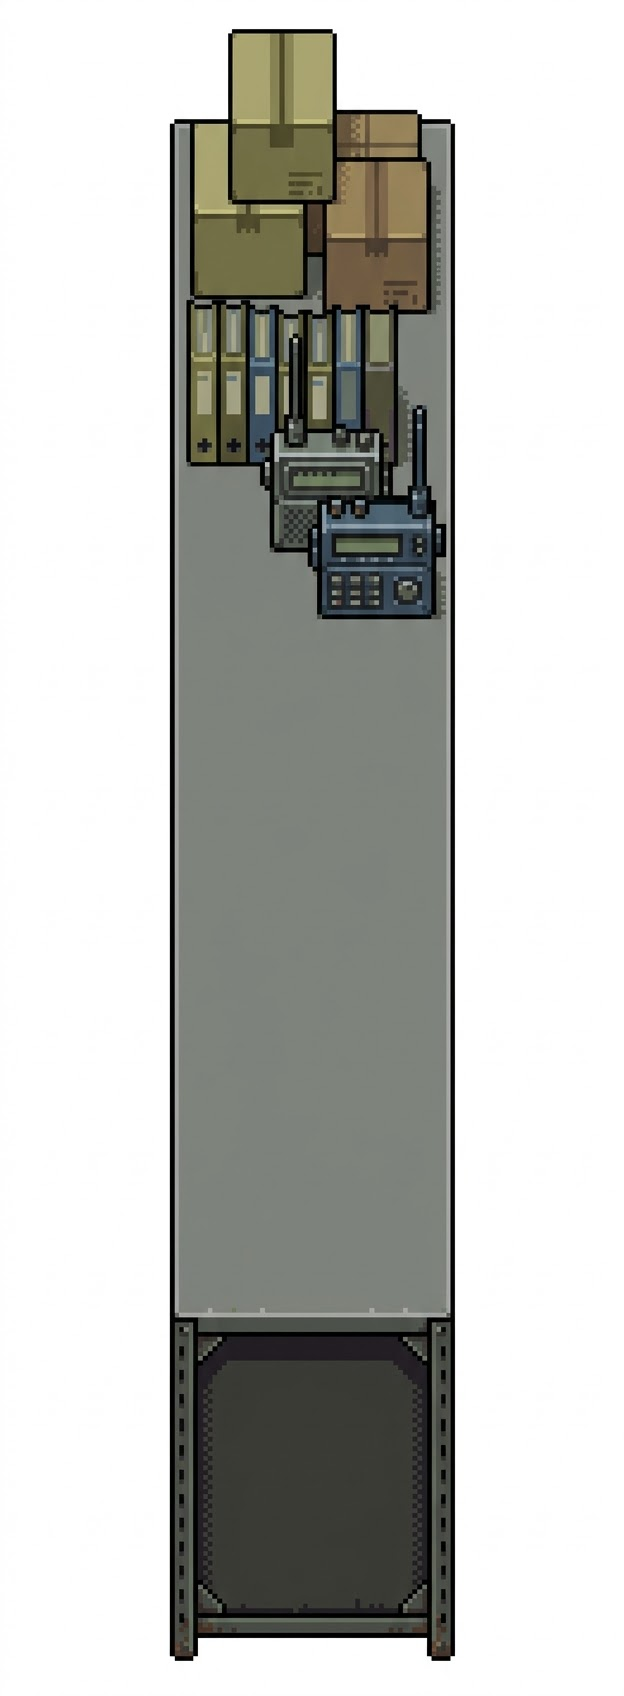
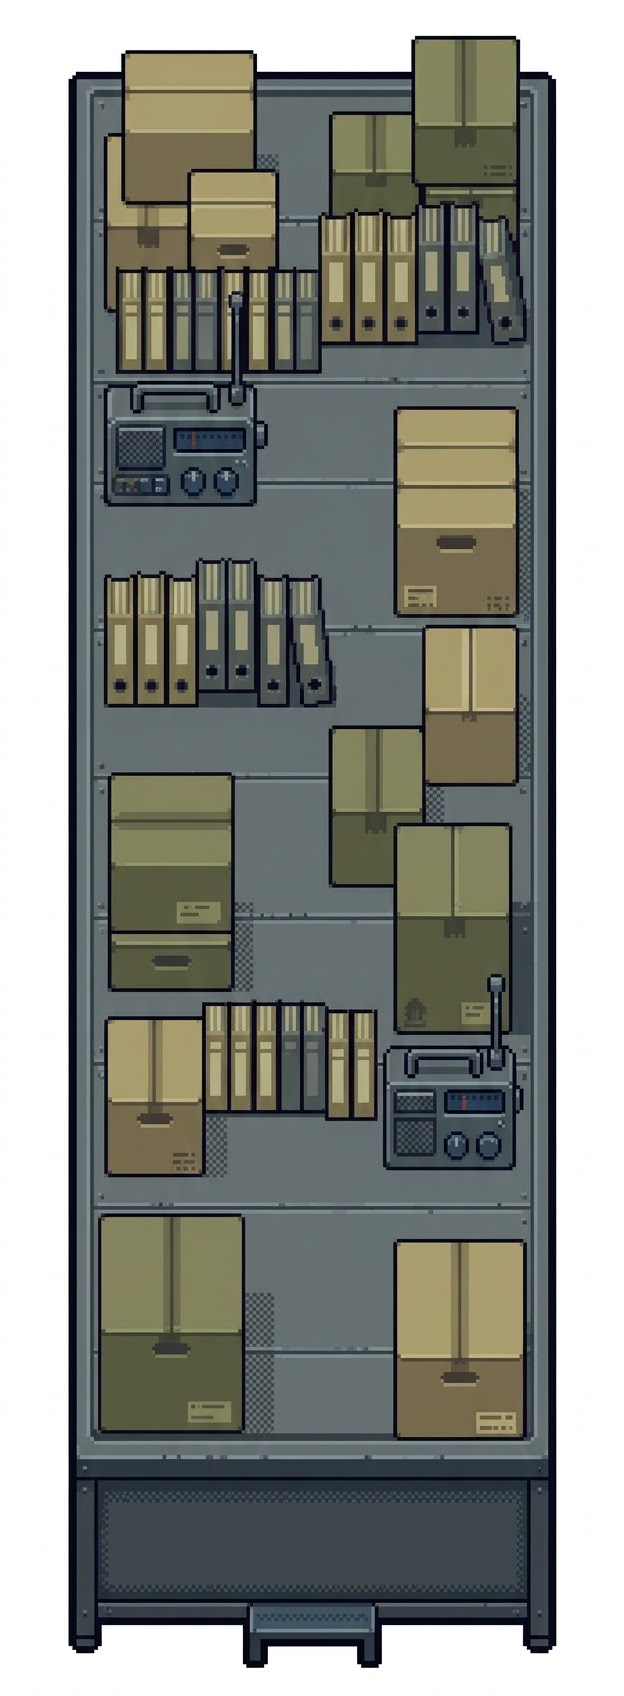
Beufa : étagère verticale, mirador et plots en vue 3/4 (décors terminés)
Claude-Session: https://claude.ai/code/session_01Nh56uCfCYFQpr6HwXFtrQ7

diff --git a/src/bosses/beufa/manifeste.js b/src/bosses/beufa/manifeste.js
@@ -23,12 +23,14 @@ export const MANIFESTE = {
     // les PNG dans sprites/beufa/, remplacer fichier: null par le chemin — dimensions identiques)
     beufa_camion:     { fichier: 'sprites/beufa/beufa_camion.jpg', fond: 'blanc', largeur: 176, hauteur: 72, images: 1, vitesse: 1, provisoire: { forme: 'camion_nes', couleur: '#385438', pixel: 2 } },
     beufa_camion_v:   { fichier: 'sprites/beufa/beufa_camion_v.jpg', fond: 'blanc', largeur: 72, hauteur: 176, images: 1, vitesse: 1, provisoire: { forme: 'camion_nes', couleur: '#385438', pixel: 2 } },
-    // V50 : l'étagère du QG (remplace les conteneurs de port posés DANS le bâtiment) ; verticale : l'horizontale tournée en attendant une bonne _v
+    // V50 : l'étagère du QG (remplace les conteneurs de port posés DANS le bâtiment) 
     beufa_etagere:    { fichier: 'sprites/beufa/beufa_etagere.jpg', fond: 'blanc', largeur: 140, hauteur: 52, images: 1, vitesse: 1, provisoire: { forme: 'conteneur_nes', couleur: '#545454', pixel: 2 } },
+    beufa_etagere_v:  { fichier: 'sprites/beufa/beufa_etagere_v.jpg', fond: 'blanc', largeur: 52, hauteur: 140, images: 1, vitesse: 1, provisoire: { forme: 'conteneur_nes', couleur: '#545454', pixel: 2 } },
+    beufa_plot:       { fichier: 'sprites/beufa/beufa_plot.jpg', fond: 'blanc', largeur: 20, hauteur: 20, images: 1, vitesse: 1, provisoire: { forme: 'baril_nes', couleur: '#d8701c', pixel: 2 } },
     beufa_jeep:       { fichier: 'sprites/beufa/beufa_jeep.jpg', fond: 'blanc', largeur: 88, hauteur: 60, images: 1, vitesse: 1, provisoire: { forme: 'jeep_nes', couleur: '#38543c', pixel: 2 } },
     beufa_helico:     { fichier: 'sprites/beufa/beufa_helico.jpg', fond: 'blanc', largeur: 184, hauteur: 100, images: 1, vitesse: 1, provisoire: { forme: 'helico_nes', couleur: '#1c3854', pixel: 2 } },
     beufa_reservoir:  { fichier: 'sprites/beufa/beufa_reservoir.jpg', fond: 'blanc', largeur: 96, hauteur: 96, images: 1, vitesse: 1, provisoire: { forme: 'reservoir_nes', couleur: '#385454', pixel: 2 } },
-    beufa_mirador:    { fichier: 'sprites/beufa/beufa_mirador.jpg', fond: 'blanc', largeur: 80, hauteur: 80, images: 1, vitesse: 1, provisoire: { forme: 'mirador_nes', couleur: '#545038', pixel: 2 } },
+    beufa_mirador:    { fichier: 'sprites/beufa/beufa_mirador.jpg', fond: 'blanc', largeur: 68, hauteur: 88, images: 1, vitesse: 1, provisoire: { forme: 'mirador_nes', couleur: '#545038', pixel: 2 } },
     beufa_tente:      { fichier: 'sprites/beufa/beufa_tente.jpg', fond: 'blanc', largeur: 148, hauteur: 96, images: 1, vitesse: 1, provisoire: { forme: 'tente_nes', couleur: '#545438', pixel: 2 } },
     beufa_ratelier:   { fichier: 'sprites/beufa/beufa_ratelier.jpg', fond: 'blanc', largeur: 140, hauteur: 52, images: 1, vitesse: 1, provisoire: { forme: 'ratelier_nes', couleur: '#545038', pixel: 2 } },
     beufa_baril:      { fichier: 'sprites/beufa/beufa_baril.jpg', fond: 'blanc', largeur: 34, hauteur: 52, images: 1, vitesse: 1, provisoire: { forme: 'baril_nes', couleur: '#385454', pixel: 2 } },

diff --git a/src/bosses/beufa/reglages.js b/src/bosses/beufa/reglages.js
@@ -72,7 +72,7 @@ export const PIECES = [
       [150, 170, 140, 52, 'beufa_conteneur_olive'],                         // le conteneur du nord-ouest
       [780, 110, 96, 96, 'beufa_reservoir'],         // LE RÉSERVOIR du nord-est (la variante passe entre lui et le mur)
       [820, 430, 140, 52],                           // LA COUVERTURE DU CHEMIN EST (variante)
-      [860, 620, 80, 80, 'beufa_mirador'],           // le mirador du portail (décor)
+      [860, 620, 68, 80, 'beufa_mirador'],           // le mirador du portail (décor)
       [370, 70, 64, 64, 'beufa_guerite'],            // V52 : la guérite de la porte du QG (petite couverture avant la sortie)
       [70, 640, 64, 64, 'beufa_palettes'],           // V52 : palettes dans le coin sud-ouest (hors des chemins)
     ],
@@ -111,6 +111,7 @@ export const PIECES = [
       [560, 455, 176, 72, 'beufa_camion'], [800, 455, 176, 72, 'beufa_camion'], [1040, 455, 176, 72, 'beufa_camion'],
       [1220, 480, 96, 96, 'beufa_reservoir'],        // la station : cache la dernière niche du gardien de la porte
       [1300, 90, 88, 60, 'beufa_jeep'],              // décor de l'angle nord-est
+      [360, 410, 16, 16, 'beufa_plot'], [392, 410, 16, 16, 'beufa_plot'], [1130, 320, 16, 16, 'beufa_plot'], [1170, 320, 16, 16, 'beufa_plot'],   // V55 : plots au bord de la route (hors des chemins des gardes)
       [1385, 495, 48, 48, 'beufa_pneus'], [250, 500, 48, 48, 'beufa_pneus'],   // V53 : pneus dans les coins (hors des chemins)
     ],
     decorsSol: [ [900, 385, 'beufa_huile', 0.6], [640, 330, 'beufa_huile', 0.6], [1180, 160, 'beufa_huile', 0.6] ],   // V53 : taches d'huile

diff --git a/NOTES.md b/NOTES.md
@@ -635,3 +635,9 @@ Détourage du fond blanc, chaque image remise à la même hauteur (le coureur s'
   bureau de Beufa (1200,75, à la place de la caisse), 2 plantes (coins est du bureau), tapis au sol (1250,300).
 - Tailles du manifeste calées sur le format réel des images (bureau 120×94, consoles 132×40, munitions 70×38…).
 - Il ne reste à livrer que : étagère verticale (n°2), plot (n°18, à placer ensuite au parc), mirador (n°28).
+
+## BEUFA — V55 : DÉCORS TERMINÉS (tous en vue 3/4)
+- Étagère verticale (QG, rayonnages : plus de rotation), mirador (68×88, obstacle 68×80), 4 plots au bord de la
+  route du parc (petits obstacles 16×16, hors des chemins des gardes).
+- Tous les prompts de `propositions/beufa_prompts_decor_complets.md` sont livrés. Encore d'origine (jamais
+  signalés) : jeep, réservoir, hélico, sacs de sable, portes, sol, murs — à revoir seulement si le style choque.
